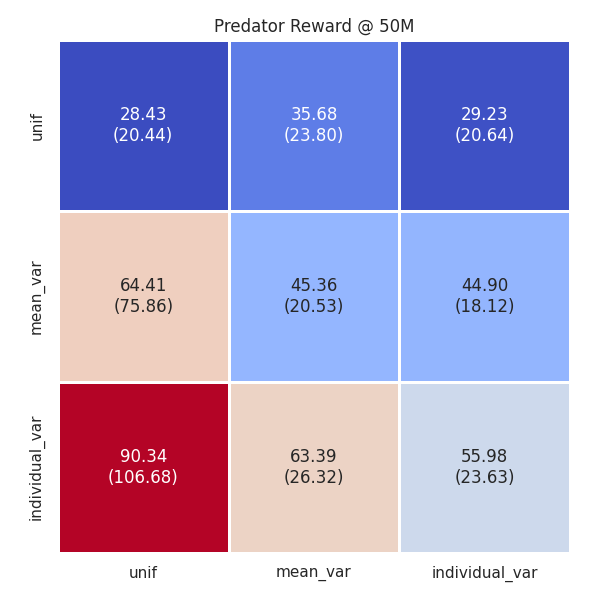
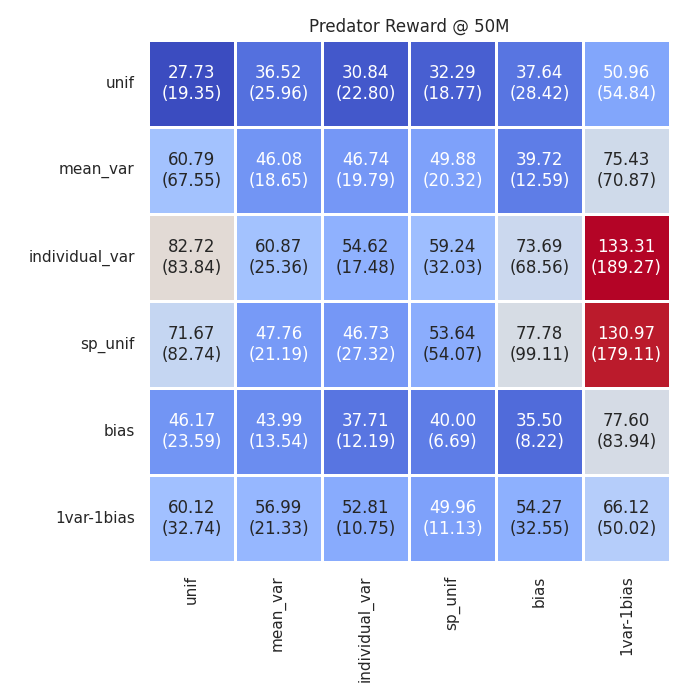
update

diff --git a/onpolicy/runner/competitive/mpe_curriculum_runner.py b/onpolicy/runner/competitive/mpe_curriculum_runner.py
@@ -24,6 +24,7 @@ class MPECurriculumRunner(Runner):
             buffer_size=self.all_args.curriculum_buffer_size,
             update_method=self.all_args.update_method,
         )
+        self.config = config
 
         self.no_info = np.ones(self.n_rollout_threads, dtype=bool)
         self.env_infos = dict(
@@ -43,6 +44,10 @@ class MPECurriculumRunner(Runner):
         self.old_blue_policy = copy.deepcopy(self.blue_policy)
         self.old_red_value_normalizer = copy.deepcopy(self.red_trainer.value_normalizer)
         self.old_blue_value_normalizer = copy.deepcopy(self.blue_trainer.value_normalizer)
+
+        if self.all_args.sample_metric == 'TDerror':
+            self.TD_evaluation_envs = config["TD_evaluation_envs"]
+            self.TD_n_rollout_threads = config['TD_config'].n_rollout_threads
 
     def run(self):
         self.warmup()   
@@ -277,6 +282,83 @@ class MPECurriculumRunner(Runner):
 
             weights = self.beta * V_variance + self.alpha * V_bias
             self.curriculum_infos = dict(V_variance=np.mean(V_variance),V_bias=np.mean(V_bias))
+        elif self.sample_metric == "TDerror":
+            # get current_V for red
+            red_rnn_states_critic = np.zeros((num_weights * self.num_red, self.recurrent_N, self.hidden_size), dtype=np.float32)
+            red_masks = np.ones((num_weights * self.num_red, 1), dtype=np.float32)
+            red_values = self.red_trainer.policy.get_values(
+                np.concatenate(share_obs[:, :self.num_red]),
+                red_rnn_states_critic,
+                red_masks,
+            )
+            red_values = np.array(np.split(_t2n(red_values), num_weights))
+            red_values_denorm = self.red_trainer.value_normalizer.denormalize(red_values)
+
+            # get current_V for blue
+            blue_rnn_states_critic = np.zeros((num_weights * self.num_blue, self.recurrent_N, self.hidden_size), dtype=np.float32)
+            blue_masks = np.ones((num_weights * self.num_blue, 1), dtype=np.float32)
+            blue_values = self.blue_trainer.policy.get_values(
+                np.concatenate(share_obs[:, -self.num_blue:]),
+                blue_rnn_states_critic,
+                blue_masks,
+            )
+            blue_values = np.array(np.split(_t2n(blue_values), num_weights))
+            blue_values_denorm = self.blue_trainer.value_normalizer.denormalize(blue_values)
+
+            # get actions, share_obs = obs
+            red_rnn_states_actor = np.zeros((num_weights * self.num_red, self.recurrent_N, self.hidden_size), dtype=np.float32)
+            red_actions, _ = self.red_trainer.policy.act(
+                np.concatenate(share_obs[:, :self.num_red]), 
+                red_rnn_states_actor, 
+                red_masks, 
+                deterministic=True)
+            red_actions = np.array(np.split(_t2n(red_actions), num_weights))
+            blue_rnn_states_actor = np.zeros((num_weights * self.num_blue, self.recurrent_N, self.hidden_size), dtype=np.float32)
+            blue_actions, _ = self.blue_trainer.policy.act(
+                np.concatenate(share_obs[:, -self.num_blue:]), 
+                blue_rnn_states_actor, 
+                blue_masks, 
+                deterministic=True)
+            blue_actions = np.array(np.split(_t2n(blue_actions), num_weights))
+            actions = np.concatenate([red_actions, blue_actions], axis=1)
+            actions_env = np.squeeze(np.eye(self.envs.action_space[0].n)[actions], 2)
+
+            # env step
+            chunk = len(self.curriculum_buffer._state_buffer) // self.TD_n_rollout_threads
+            next_obs_all = []
+            rewards_all = []
+            for chunk_id in range(chunk):
+                initial_states = self.curriculum_buffer._state_buffer[chunk_id * self.TD_n_rollout_threads:(chunk_id + 1)*self.TD_n_rollout_threads]
+                env_idx = np.arange(self.TD_n_rollout_threads).tolist()
+                current_obs = self.TD_evaluation_envs.partial_reset(env_idx, initial_states)
+                next_obs, rewards, _, _ = self.TD_evaluation_envs.step(actions_env[chunk_id * self.TD_n_rollout_threads:(chunk_id + 1)*self.TD_n_rollout_threads])
+                next_obs_all.append(next_obs)
+                rewards_all.append(rewards)
+            next_obs_all = np.concatenate(next_obs_all,axis=0)
+            rewards_all = np.concatenate(rewards_all,axis=0)
+
+            # get next_V for red
+            red_next_values = self.red_trainer.policy.get_values(
+                np.concatenate(next_obs_all[:, :self.num_red]),
+                red_rnn_states_critic,
+                red_masks,
+            )
+            red_next_values = np.array(np.split(_t2n(red_next_values), num_weights))
+            red_next_values_denorm = self.red_trainer.value_normalizer.denormalize(red_next_values)
+
+            # get next_V for blue
+            blue_next_values = self.blue_trainer.policy.get_values(
+                np.concatenate(next_obs_all[:, -self.num_blue:]),
+                blue_rnn_states_critic,
+                blue_masks,
+            )
+            blue_next_values = np.array(np.split(_t2n(blue_next_values), num_weights))
+            blue_next_values_denorm = self.blue_trainer.value_normalizer.denormalize(blue_next_values)
+
+            values_denorm = np.concatenate([red_values_denorm, -blue_values_denorm], axis=1)
+            next_values_denorm = np.concatenate([red_next_values_denorm, -blue_next_values_denorm], axis=1)
+            TDerror = np.abs(rewards_all + self.all_args.gamma * next_values_denorm - values_denorm)
+            weights = np.mean(TDerror,axis=1)[:,0]
     
         self.curriculum_buffer.update_weights(weights)
 

diff --git a/onpolicy/runner/competitive/base_ensemble_runner.py b/onpolicy/runner/competitive/base_ensemble_runner.py
@@ -65,6 +65,7 @@ class Runner(object):
 
         # interval
         self.save_interval = self.all_args.save_interval
+        self.save_ckpt_interval = self.all_args.save_ckpt_interval
         self.use_eval = self.all_args.use_eval
         self.eval_interval = self.all_args.eval_interval
         self.log_interval = self.all_args.log_interval
@@ -227,6 +228,34 @@ class Runner(object):
             if self.use_valuenorm:
                 blue_value_normalizer = self.blue_trainer.value_normalizer
                 torch.save(blue_value_normalizer.state_dict(), str(self.save_dir) + "/blue_value_normalizer.pt")
+
+    def save_ckpt(self, total_num_steps):
+        million_steps = int(total_num_steps // 1000000)
+        save_ckpt_dir = f"{self.save_dir}/{million_steps}M"
+        assert not os.path.exists(save_ckpt_dir), (f"checkpoint path {save_ckpt_dir} already exists.")
+        os.makedirs(save_ckpt_dir)
+        
+        if self.use_single_network:
+            red_policy_model = self.red_trainer.policy.model
+            torch.save(red_policy_model.state_dict(), f"{save_ckpt_dir}/red_model.pt")
+            blue_policy_model = self.blue_trainer.policy.model
+            torch.save(blue_policy_model.state_dict(), f"{save_ckpt_dir}/blue_model.pt")
+        else:
+            red_policy_actor = self.red_trainer.policy.actor
+            torch.save(red_policy_actor.state_dict(), f"{save_ckpt_dir}/red_actor.pt")
+            red_policy_critic = self.red_trainer.policy.critic
+            torch.save(red_policy_critic.state_dict(), f"{save_ckpt_dir}/red_critic.pt")
+            if self.use_valuenorm:
+                red_value_normalizer = self.red_trainer.value_normalizer
+                torch.save(red_value_normalizer.state_dict(), f"{save_ckpt_dir}/red_value_normalizer.pt")
+
+            blue_policy_actor = self.blue_trainer.policy.actor
+            torch.save(blue_policy_actor.state_dict(), f"{save_ckpt_dir}/blue_actor.pt")
+            blue_policy_critic = self.blue_trainer.policy.critic
+            torch.save(blue_policy_critic.state_dict(), f"{save_ckpt_dir}/blue_critic.pt")
+            if self.use_valuenorm:
+                blue_value_normalizer = self.blue_trainer.value_normalizer
+                torch.save(blue_value_normalizer.state_dict(), f"{save_ckpt_dir}/blue_value_normalizer.pt")
 
     def restore(self, model):
         if model == "red_policy":

diff --git a/onpolicy/scripts/train/train_mpe_curriculum.py b/onpolicy/scripts/train/train_mpe_curriculum.py
@@ -7,6 +7,7 @@ import socket
 import sys
 import torch
 import wandb
+import copy
 
 from onpolicy.config import get_config
 from onpolicy.envs.env_wrappers import SubprocVecEnv, DummyVecEnv
@@ -72,7 +73,7 @@ def parse_args(args, parser):
     parser.add_argument("--prob_curriculum", type=float, default=0.7, help="probability to reset initial state from curriculum")
     parser.add_argument("--curriculum_buffer_size", type=int, default=10000, help="size of curriculum buffer")
     parser.add_argument("--update_method", type=str,default="fps", choices=["random", "fps"])
-    parser.add_argument("--sample_metric", type=str,default="uniform", choices=["uniform", "variance", "rb_variance", "oracle", "variance_add_bias"])
+    parser.add_argument("--sample_metric", type=str,default="uniform", choices=["uniform", "variance", "rb_variance", "oracle", "variance_add_bias", "TDerror"])
     parser.add_argument("--alpha", type=float,default=0.0, help='trade-off for V_variance and V_bias')
     parser.add_argument("--beta", type=float,default=0.0, help='trade-off for V_variance and V_bias')
     # parser.add_argument("--max_staleness", type=int, default=5, help="maximum staleness of state in curriculum buffer")
@@ -161,10 +162,20 @@ def main(args):
     num_red = all_args.num_adv
     num_blue = all_args.num_good
 
+    if all_args.sample_metric == 'TDerror':
+        TD_config = copy.deepcopy(all_args)
+        TD_config.n_rollout_threads = 500
+        TD_evaluation_envs = make_train_env(TD_config)
+    else:
+        TD_evaluation_envs = None
+        TD_config = None
+
     config = {
         "all_args": all_args,
+        "TD_config": TD_config,
         "envs": envs,
         "eval_envs": eval_envs,
+        "TD_evaluation_envs": TD_evaluation_envs,
         "num_agents": num_agents,
         "num_red": num_red,
         "num_blue": num_blue,
@@ -181,6 +192,8 @@ def main(args):
     envs.close()
     if all_args.use_eval and eval_envs is not envs:
         eval_envs.close()
+    if all_args.sample_metric == 'TDerror':
+        TD_evaluation_envs.close()
 
     if all_args.use_wandb:
         run.finish()

diff --git a/onpolicy/scripts/heatmap.py b/onpolicy/scripts/heatmap.py
@@ -2,8 +2,8 @@ import matplotlib.pyplot as plt
 import numpy as np
 import seaborn as sns
 import pdb
-data = np.load('/home/jiayu-ch15/onpolicy/onpolicy/scripts/results/MPE/simple_tag_corner/mappo/eval-corner_unif-xp@25M/run7/logs/cross_play_returns.npy')
-num_exp = 3
+data = np.load('/home/jiayu-ch15/onpolicy/onpolicy/scripts/results/MPE/simple_tag_corner/mappo/eval-corner-xp@50M/run1/logs/cross_play_returns.npy')
+num_exp = 6
 padding = 3
 mean = np.zeros(shape=(num_exp,num_exp))
 std = np.zeros(shape=(num_exp,num_exp))
@@ -13,16 +13,16 @@ for i in range(mean.shape[0]):
         mean[i,j]=np.mean(data[i*padding:(i+1)*padding,j*padding:(j+1)*padding])
         std[i,j]=np.std(data[i*padding:(i+1)*padding,j*padding:(j+1)*padding])
         annotation[i,j] = f"{mean[i,j]:.2f}\n({std[i,j]:.2f})"
-labels=["unif", "mean_var", "individual_var"]
+labels=["unif", "mean_var", "individual_var", "sp_unif", "bias", "1var-1bias"]
 
-sns.set(rc={"figure.figsize":(6, 6)})
+sns.set(rc={"figure.figsize":(7, 7)})
 ax = sns.heatmap(
     data=mean, annot=annotation, fmt="s", 
     square=True, linewidths=2, cbar=False, cmap="coolwarm",
     xticklabels=labels, yticklabels=labels,
 )
-ax.set_title("Predator Reward @ 25M")
+ax.set_title("Predator Reward @ 50M")
 
 plt.tight_layout()
 # plt.show()
-plt.savefig("../cross_play@25M.png")
+plt.savefig("../cross_play@50M.png")

diff --git a/onpolicy/runner/competitive/mpe_curriculum_ensemble_runner.py b/onpolicy/runner/competitive/mpe_curriculum_ensemble_runner.py
@@ -85,7 +85,10 @@ class MPECurriculumRunner(Runner):
             # save model
             if (episode % self.save_interval == 0 or episode == episodes - 1):
                 self.save()
-                self.checkpoint_save(total_num_steps)
+
+            # save checkpoint
+            if (episode + 1) % self.save_ckpt_interval == 0:
+                self.save_ckpt(total_num_steps)
 
             # log information
             if episode % self.log_interval == 0:
@@ -390,7 +393,7 @@ class MPECurriculumRunner(Runner):
 
             weights = self.beta * V_variance + self.alpha * V_bias
             self.curriculum_infos = dict(V_variance=np.mean(V_variance),V_bias=np.mean(V_bias))
-    
+        
         self.curriculum_buffer.update_weights(weights)
 
     @torch.no_grad()

diff --git a/onpolicy/scripts/train/train_mpe_ensemble_curriculum.py b/onpolicy/scripts/train/train_mpe_ensemble_curriculum.py
@@ -51,6 +51,7 @@ def parse_args(args, parser):
     parser.add_argument("--competitive", action="store_true", default=False, help="by default False, use competitive runner.")
     parser.add_argument("--training_mode", type=str,default="self_play", choices=["self_play", "red_br", "blue_br"])
 
+    parser.add_argument("--save_ckpt_interval", type=int, default=250, help="checkpoint save intervel")
     parser.add_argument("--fixed_valuenorm", action="store_true", default=False, help="by default False, use fixed value norm")
     
     parser.add_argument("--red_model_dir", type=str, default=None, help="by default None, directory of fixed red model")

diff --git a/onpolicy/utils/curriculum_buffer.py b/onpolicy/utils/curriculum_buffer.py
@@ -45,7 +45,7 @@ class CurriculumBuffer(object):
             if self.update_method == "random":
                 random_idx = np.random.choice(all_states.shape[0], self.buffer_size, replace=False)
                 self._state_buffer = all_states[random_idx]
-                self._share_obs_buffer = all_share_obs[random_idx]                
+                self._share_obs_buffer = all_share_obs[random_idx]  
             elif self.update_method == "fps":
                 min_states = np.min(all_states, axis=0)
                 max_states = np.max(all_states, axis=0)

diff --git a/onpolicy/scripts/eval/eval_mpe_cross_play.py b/onpolicy/scripts/eval/eval_mpe_cross_play.py
@@ -65,7 +65,6 @@ def parse_args(args, parser):
     parser.add_argument("--num_good", type=int, default=1, help="number of good agents")
     parser.add_argument("--num_landmarks", type=int, default=2, help="number of landmarks")
     parser.add_argument("--hard_boundary", action="store_true", default=False, help="by default False, use hard boundary")
-    parser.add_argument("--num_critic", type=int,default=1, help='number of critic network')
 
     all_args = parser.parse_known_args(args)[0]
     all_args.num_agents = all_args.num_adv + all_args.num_good
